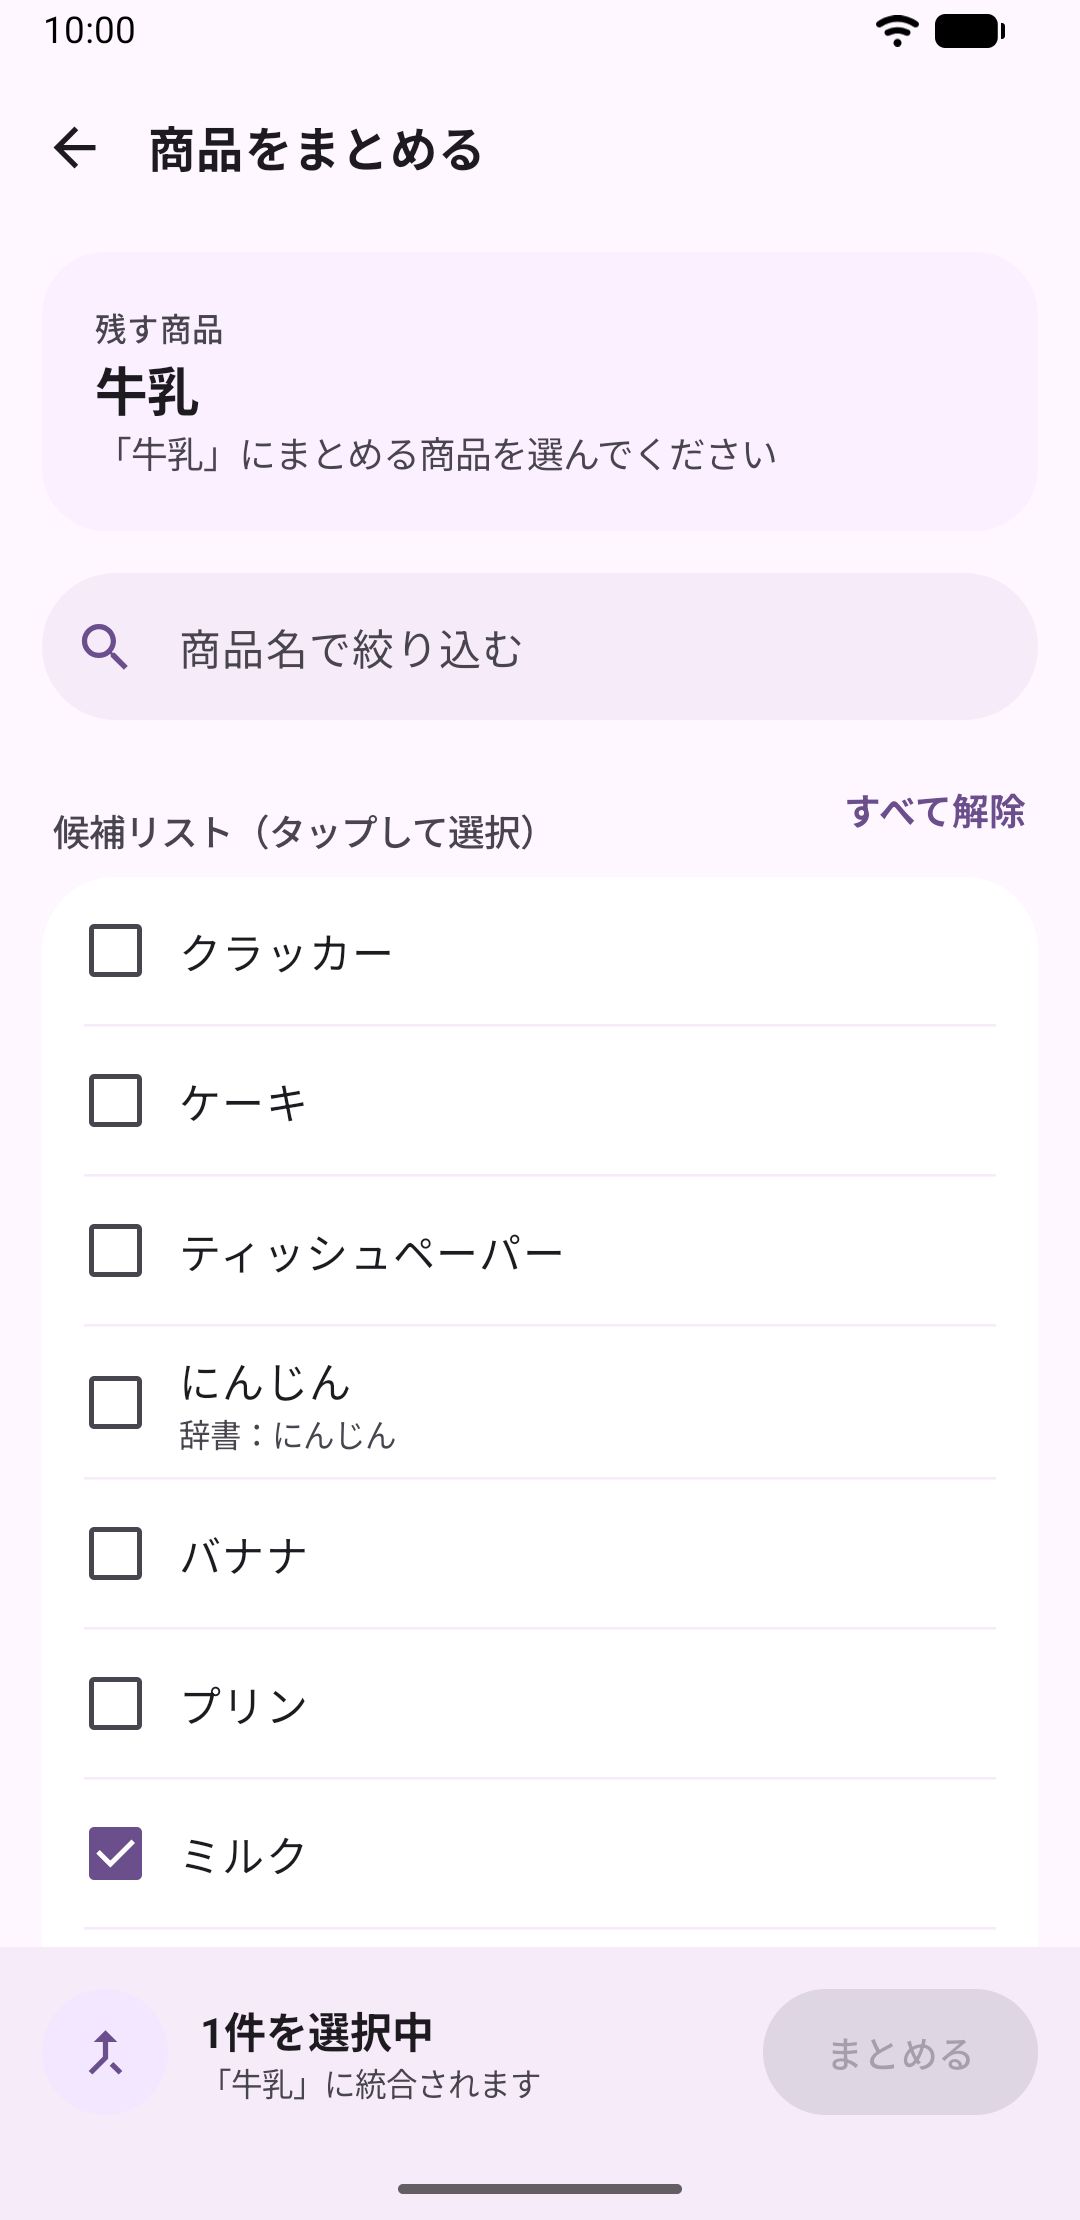
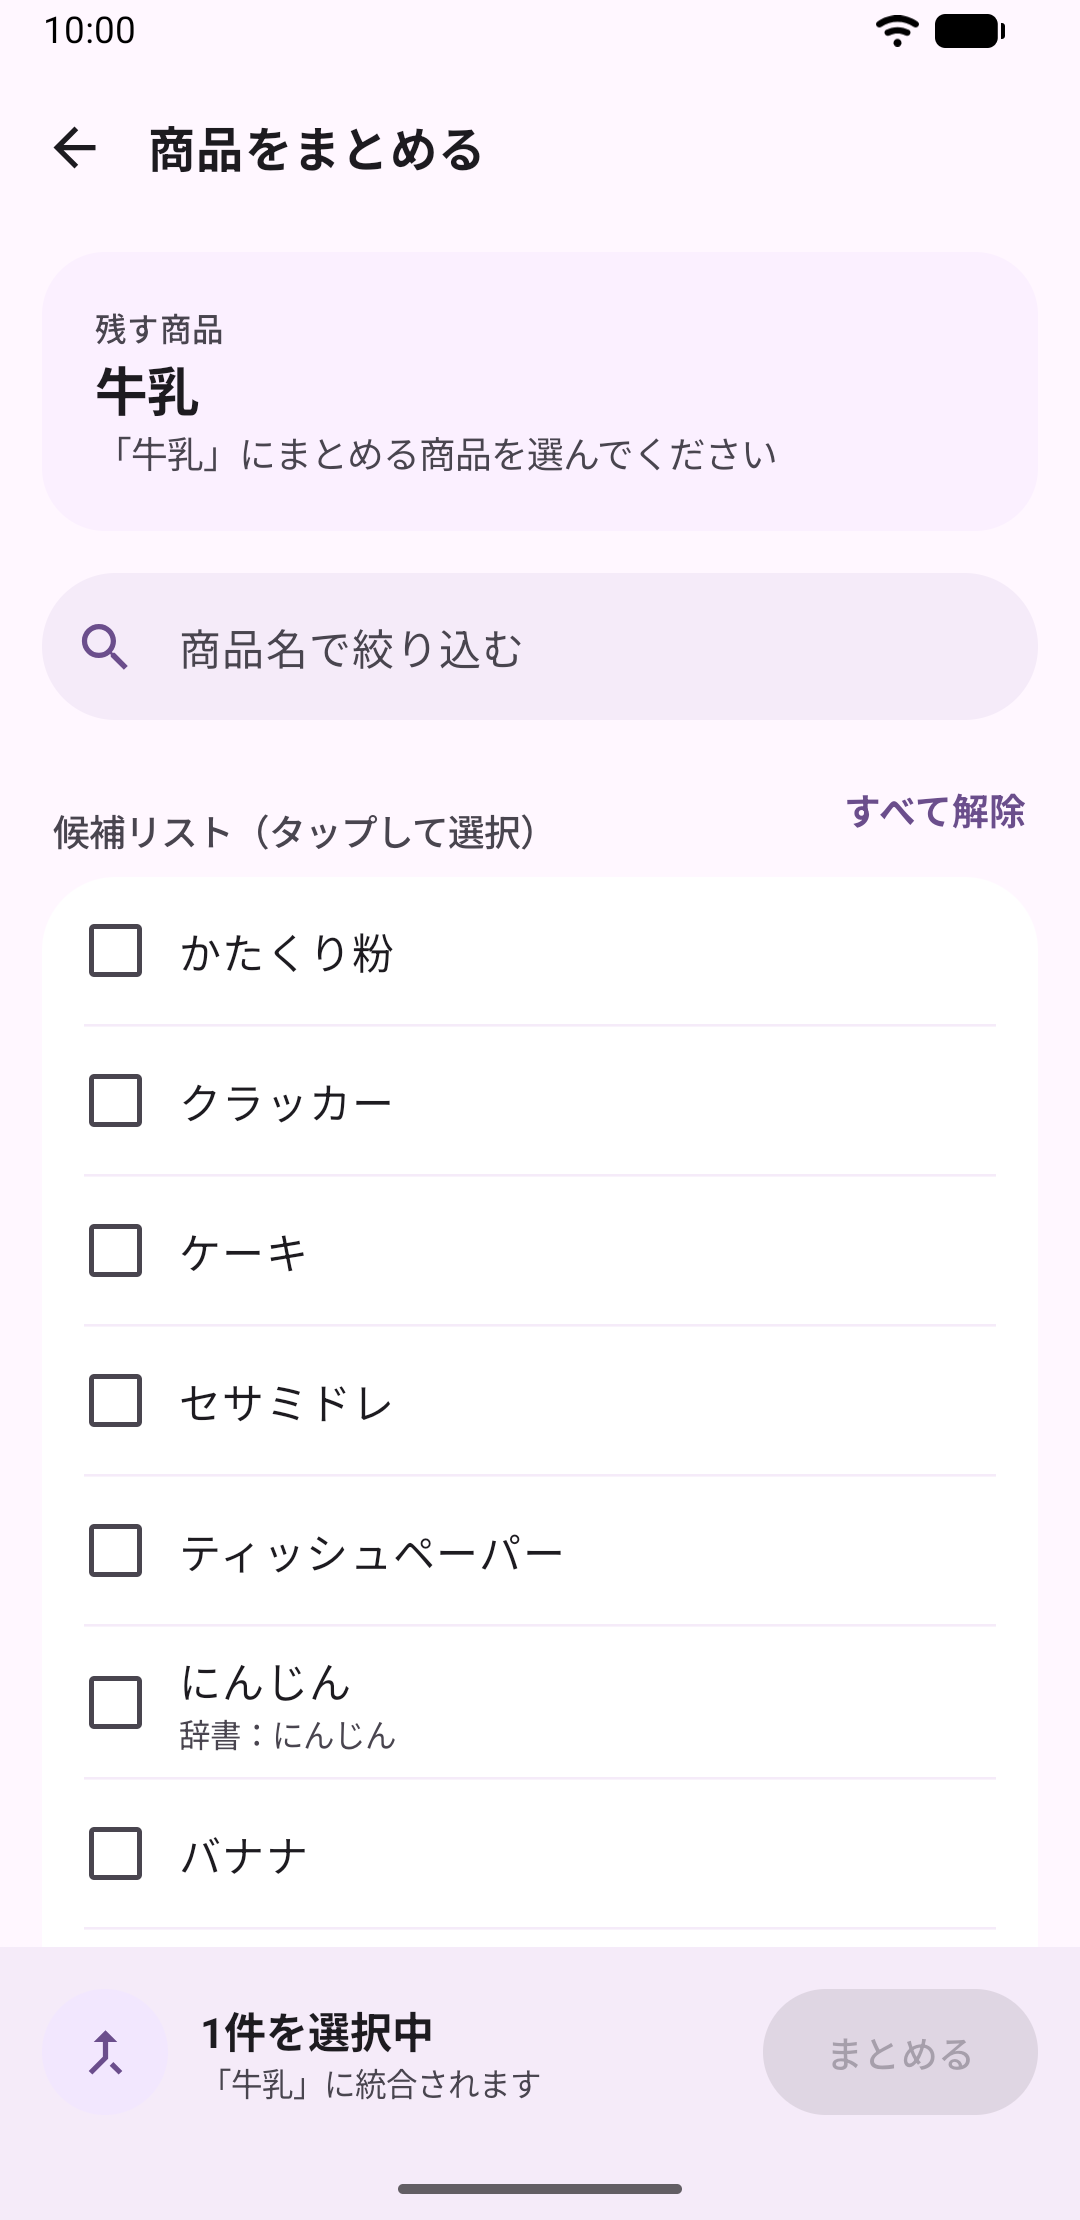
Show the AI merge candidates in the screenshots and the store listing
The showcase data now has two pairs that only the AI connects (片栗粉 and
かたくり粉, 胡麻ドレ and セサミドレ) with their judgements written as the
function would, so the product names screen opens with the AI
candidates. The judge version is read from the Kotlin source so that the
seeded judgements do not silently go stale. The listing and README no
longer call the AI candidates planned, and the listing adds them as the
sixth store screenshot.

diff --git a/tools/testdata/seed.py b/tools/testdata/seed.py
@@ -7,7 +7,7 @@
   - テスト用ユーザー taro@example.com（パスワード cartmate-test、表示名 山田 太郎）と、その家族
   - リスト「スーパー」「薬局」と、そこで過去に買った商品の購入の記録（今日を基準にした日付）
   - --showcase のときは、画面のスクリーンショット用に、家族のメンバー（山田 花子）、未購入とチェック済みの項目、
-    プライベートのリスト、まとめた商品、招待コードも入れる（tools/screenshots/take.sh）
+    プライベートのリスト、まとめた商品、AI の名寄せの判定、招待コードも入れる（tools/screenshots/take.sh）
 
 標準ライブラリだけを使う（Python 3.9 以上）。
 
@@ -19,6 +19,7 @@ import argparse
 import datetime
 import hashlib
 import json
+import pathlib
 import re
 import sys
 import time
@@ -97,6 +98,17 @@ SHOWCASE_PURCHASES = [
 ]
 # 「牛乳」にまとめた別の表記。購入日（27日前）は牛乳の周期（7日ごと）に沿わせる
 SHOWCASE_MERGED = ("ミルク", "牛乳", "スーパー", 1, "本", 27)
+# 商品名の管理の「AI の候補」に出す組。商品名, 購入日（今日から何日前か）, AI の品目, AI の理由。
+# どれも辞書になく、1回ずつしか買っていない（よく買う商品にも時期が近い商品にも出ず、サジェストのシートは変わらない）。
+# 判定は、関数（judgeName）が書いたものと同じ形で入れる（エミュレータでは関数を動かさない）
+SHOWCASE_AI = [
+    ("片栗粉", 40, "片栗粉", "「片栗粉」はじゃがいものでんぷんの粉"),
+    ("かたくり粉", 12, "片栗粉", "「かたくり粉」は片栗粉のひらがな表記"),
+    ("胡麻ドレ", 50, "ごまドレッシング", "「胡麻ドレ」はごまドレッシングの略称"),
+    ("セサミドレ", 18, "ごまドレッシング", "「セサミドレ」はごまドレッシングの略称"),
+]
+# AI の信頼度（候補にする下限 0.7 以上）
+SHOWCASE_AI_CONFIDENCE = 0.9
 INVITE_CODE = "K7QM2XWP4R"
 
 
@@ -121,10 +133,28 @@ def product_id(name):
     return "n_" + hashlib.sha256(normalized_name(name).encode("utf-8")).digest()[:16].hex()
 
 
+def judgement_key(normalized, qualifiers=None):
+    """アプリの JudgementKey.of と同じ（属性がなければ、名前だけで決まる）"""
+    lines = sorted(f"{kind}={v}" for kind, values in (qualifiers or {}).items() for v in values)
+    canonical = "\n".join(["v1", normalized] + lines)
+    return hashlib.sha256(canonical.encode("utf-8")).hexdigest()[:32]
+
+
+def judge_version():
+    """アプリの NameJudgement.CURRENT_VERSION。違うと、アプリは判定を使わない（候補が出ない）ので、ソースから読む"""
+    path = pathlib.Path(__file__).resolve().parents[2] / "domain/src/main/kotlin/com/cheesecomer/cartmate/domain/product/NameJudgement.kt"
+    match = re.search(r'const val CURRENT_VERSION = "([^"]+)"', path.read_text(encoding="utf-8"))
+    if not match:
+        sys.exit(f"判定のバージョンが見つからない: {path}")
+    return match.group(1)
+
+
 def value(v):
     """Firestore の REST API の値"""
     if v is None:
         return {"nullValue": None}
+    if isinstance(v, dict):
+        return {"mapValue": {"fields": {k: value(x) for k, x in v.items()}}}
     if isinstance(v, bool):
         return {"booleanValue": v}
     if isinstance(v, (int, float)):
@@ -270,6 +300,18 @@ def main():
         at = noon - datetime.timedelta(days=day)
         item(f"seed-{pid[2:10]}-{day}", pid, name, list_name, quantity, unit, None, "shared", MEMBER_UID, day, at, at)
         count += 1
+        version = judge_version()
+        for name, day, ai_item, reason in SHOWCASE_AI:
+            at = noon - datetime.timedelta(days=day)
+            pid = product(name, at)
+            item(f"seed-{pid[2:10]}-{day}", pid, name, "スーパー", 1, "袋", None, "shared", uid, day, at, at)
+            count += 1
+            put(f"{household}/nameJudgements/{judgement_key(normalized_name(name))}", {
+                "normalizedName": normalized_name(name), "qualifiers": {}, "status": "done",
+                "item": ai_item, "form": None, "volume": None, "use": None, "variant": None,
+                "confidence": SHOWCASE_AI_CONFIDENCE, "reason": reason, "judgeVersion": version,
+                "dictionaryVersion": "showcase", "requestedAt": at, "judgedAt": at,
+            })
         put(f"invites/{INVITE_CODE}", {
             "householdId": HOUSEHOLD_ID, "createdBy": uid, "inviterName": DISPLAY_NAME,
             "createdAt": now - datetime.timedelta(hours=2), "expiresAt": now + datetime.timedelta(hours=22),

diff --git a/docs/testing.md b/docs/testing.md
@@ -183,12 +183,12 @@ tools/screenshots/take.sh            # docs/screenshots を置き換える。引
 - オンラインの表示: アプリは、接続を確認できたネットワークがないとオフラインと表示します。Android Emulator の DNS が使えなくなっている（PC のネットワークが変わったあとなど）と確認できないので、そのときだけ接続の確認（キャプティブポータルの検出）を止めてつなぎ直します。Firebase のエミュレータには 10.0.2.2 で直接つながるので、データの同期には影響しません。オフラインの表示のまま撮ろうとすると失敗します。
 - ログイン画面の「エミュレータのテスト用ユーザーでログイン」は、撮るあいだ隠し（`FirebaseEmulator.testUserSignInVisible`）、テストから直接ログインします。
 
-- 撮る画面: ログイン、リスト一覧、リスト作成のシート、リスト詳細（共有・プライベート）、サジェストのシート（空欄・入力中）、商品詳細入力（新規・似た名前の商品があるときの「『ヨーグルト』と同じ商品として扱う」の未選択と選択・編集）、家族、家族から抜ける確認、商品名の管理、商品の詳細、購入履歴、商品をまとめる。
+- 撮る画面: ログイン、リスト一覧、リスト作成のシート、リスト詳細（共有・プライベート）、サジェストのシート（空欄・入力中）、商品詳細入力（新規・似た名前の商品があるときの「『ヨーグルト』と同じ商品として扱う」の未選択と選択・編集）、家族、家族から抜ける確認、商品名の管理（上部に「AI の候補」）、商品の詳細、購入履歴、商品をまとめる。
 - シート（リスト作成、サジェストの空欄・入力中）は、キーボードを出したまま（`-keyboard`）と、戻るキーでキーボードを閉じたあと（`-no-keyboard`）の2枚を撮ります。キーボードが実際に出たのを確かめてから撮ります（シートはキーボードが出るまで画面の下に隠して配置しておくので、シートの文字が見つかっても、まだ見えているとは限らない）。ストアの掲載画像のサジェストには、時期が近い商品とよく買う商品が1画面に入る `05-suggestions-no-keyboard` を使います。
 - スクロールしないと見えない部分がある画面は、画面を縦に伸ばして全体を収めた1枚（`-full`。例: `07-item-entry-full.png`）も撮ります。画面の大きさを変えると画面は作り直されますが、表示していた画面のまま撮れます。`-full` は掲載画像の比率（長辺が短辺の2倍以内）に収まらないことがあるので、確認用です。
 - 同時には1つしか実行できません（`/tmp/cartmate-take-screenshots.lock`）。同時に実行すると、テストデータの入れ直しとアプリの入れ替えで互いの撮影を壊すためです。実行中なら「別の take.sh（pid …）が実行中」と出てすぐに終わります。強制終了などで残ったロックは、次の実行が取り直します。
 - 撮らない画面: 家族の作成・参加・合流（テスト用ユーザーはすでに家族に参加しているため）、オフライン表示。
-- `--showcase` で足すデータ: メンバー「山田 花子」（購入の記録の一部は花子の購入にする）、スーパーの項目（上から未購入の「にんじん」、自分がチェックした「納豆」、花子がチェックした「豆腐」、続けて未購入3件〈自分のみの「プリン」を含む〉。ストアの掲載画像で、3つの状態を上から並べて見せるため。チェックした時刻は、ステータスバーの 10:00 に合わせて 9:00 と 8:00 に固定し、撮るたびに画像が変わらないようにする。撮る時刻より後になるときは前日の同じ時刻にする）、リスト「ホームセンター」（登録なし）と自分のみのリスト「誕生日の準備」、「牛乳」にまとめた「ミルク」、「プレーンヨーグルト」の表記ゆれの候補にする「ヨーグルト」（15日ごと・最後は5日前。サジェストには出ない。サジェストのシートの候補を、時期が近い商品4件とよく買う商品の「卵」の5行に収め、最後の行が切れないようにするため）、予定日を大きく過ぎて順位が下がる「もやし」（3日ごと・最後は8日前。「5日過ぎ」で「あと1日」の牛乳より下に出る）、有効な招待コード。
+- `--showcase` で足すデータ: メンバー「山田 花子」（購入の記録の一部は花子の購入にする）、スーパーの項目（上から未購入の「にんじん」、自分がチェックした「納豆」、花子がチェックした「豆腐」、続けて未購入3件〈自分のみの「プリン」を含む〉。ストアの掲載画像で、3つの状態を上から並べて見せるため。チェックした時刻は、ステータスバーの 10:00 に合わせて 9:00 と 8:00 に固定し、撮るたびに画像が変わらないようにする。撮る時刻より後になるときは前日の同じ時刻にする）、リスト「ホームセンター」（登録なし）と自分のみのリスト「誕生日の準備」、「牛乳」にまとめた「ミルク」、「プレーンヨーグルト」の表記ゆれの候補にする「ヨーグルト」（15日ごと・最後は5日前。サジェストには出ない。サジェストのシートの候補を、時期が近い商品4件とよく買う商品の「卵」の5行に収め、最後の行が切れないようにするため）、予定日を大きく過ぎて順位が下がる「もやし」（3日ごと・最後は8日前。「5日過ぎ」で「あと1日」の牛乳より下に出る）、商品名の管理の「AI の候補」に出す2組（「片栗粉」と「かたくり粉」、「胡麻ドレ」と「セサミドレ」。どれも辞書になく、1回ずつ購入。サジェストのシートには出ない）とその AI の判定（関数が書くものと同じ形で直接入れる。エミュレータでは関数を動かさない。判定のバージョンは `NameJudgement.CURRENT_VERSION` をソースから読む）、有効な招待コード。
 - 端末は `ANDROID_SERIAL` で選びます（既定は最初の Android Emulator）。アプリのデータを消すので、実機では動かしません。ほかの作業で同じエミュレータを操作していると、途中でアプリが閉じられて失敗します。
 - 撮ったあとも、エミュレータにつなぐデバッグ版が入ったままです。
 - 画面を変えて操作の手順が合わなくなると失敗し、`docs/screenshots` は変えずに、撮れた分と失敗したときの画面（`failed.png`）を `build/screenshots` に残します。`ScreenshotTour` の手順を直します。

diff --git a/README.md b/README.md
@@ -2,7 +2,7 @@
 
 家族で共有する買い物リストの Android アプリです。「スーパー」「薬局」など買い物先ごとにリストを分けて、家族全員でリアルタイムに確認できます。購入履歴から「そろそろ買う時期」の商品を提案します。
 
-> **開発状況**: MVP のフェーズ1〜5（[ロードマップ](docs/roadmap.md)）を実装済みで、Google Play の内部テストで配布しています。AI による名寄せの候補（フェーズ6）と受け入れテスト（フェーズ7）はこれからです。
+> **開発状況**: フェーズ1〜6（[ロードマップ](docs/roadmap.md)。AI による名寄せの候補まで）を実装済みで、Google Play の内部テストで配布しています。受け入れテスト（フェーズ7）はこれからです。
 
 <p>
   <img src="docs/screenshots/02-lists.png" width="200" alt="リスト一覧">
@@ -21,7 +21,7 @@
 - **オフライン**: 店内で電波がなくても追加・チェックができ、接続が戻ると共有される
 - **公開範囲**: リストと項目を「自分のみ」にできる（Security Rules で家族から隠す）
 - **予測とサジェスト**: 同じ商品を3回買うと購入周期を推定し、時期が近い商品を候補に出す。よく買う商品、前回の数量と単位、いつもより早い再購入の注意
-- **商品の名寄せ**: 同梱の辞書による表記ゆれの吸収、商品をまとめる画面、商品ごとの購入履歴、予測から外す・非表示にする
+- **商品の名寄せ**: 同梱の辞書による表記ゆれの吸収、辞書にない書き方の違いを AI が判定して出すまとめる候補、商品をまとめる画面、商品ごとの購入履歴、予測から外す・非表示にする
 - **家族とアカウント**: 表示名と呼び名、招待の取り消し、メンバーの削除、離脱とオーナーの引き継ぎ、ほかの家族への合流、アプリ内でのアカウントの削除
 
 振る舞いの詳細は [要件](docs/requirements.md) にあります。
